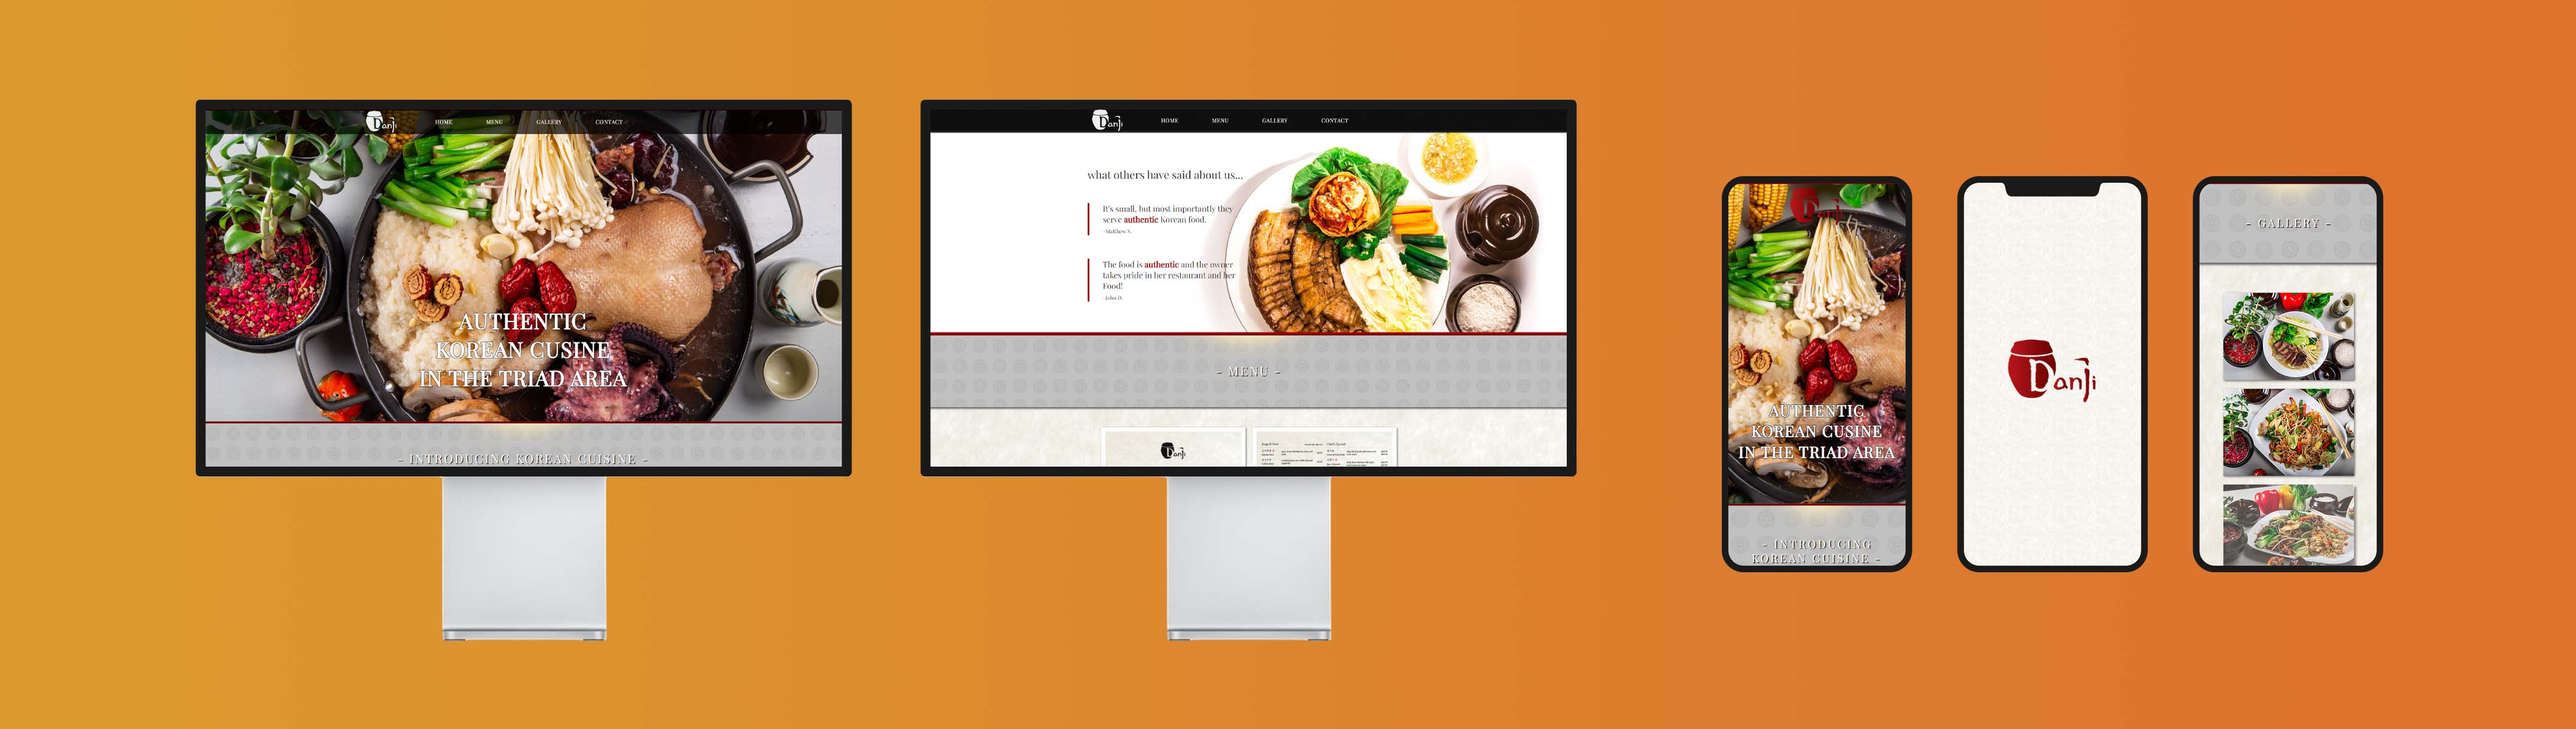
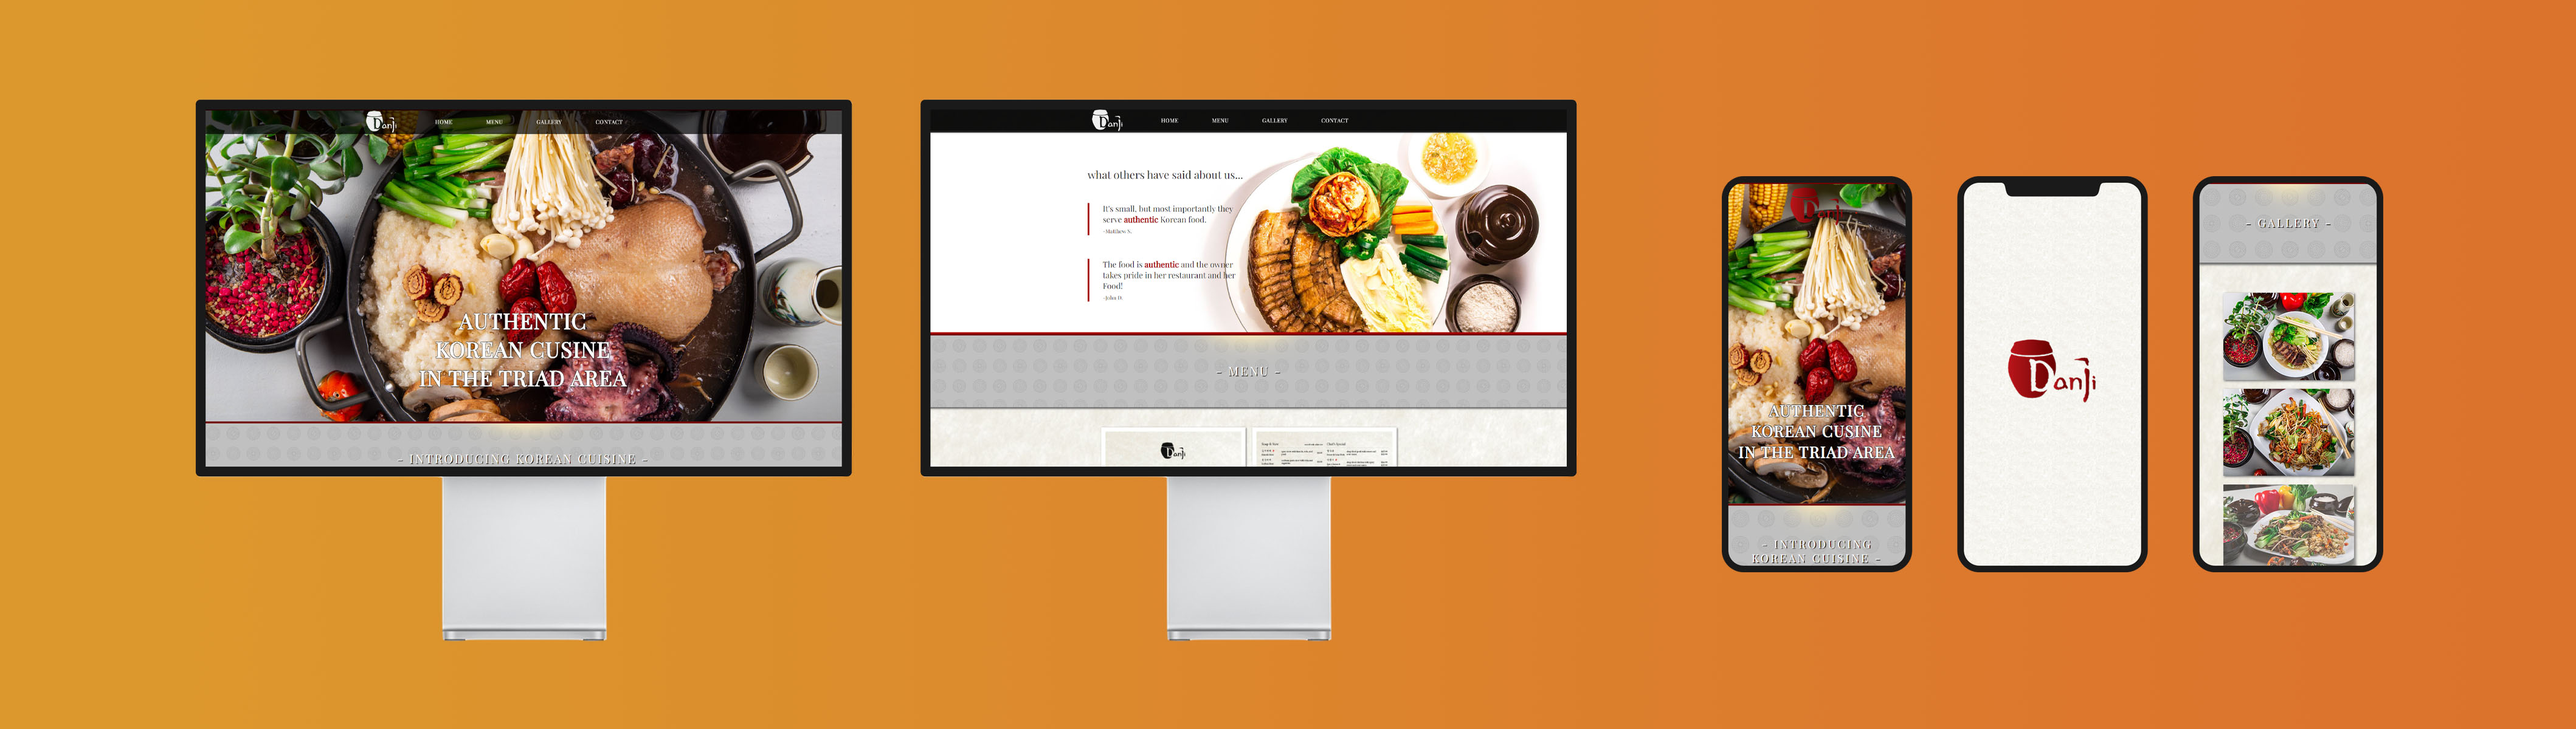
svg

diff --git a/src/assests/image/projects/DesktopSVG.js b/src/assests/image/projects/DesktopSVG.js
@@ -1,0 +1,76 @@
+import React from "react";
+
+const DesktopSVG = ({ img }) => {
+  const st0 = {
+    fill: "#CCCCCC",
+  };
+  const st1 = {
+    fill: "#B3B3B3",
+  };
+  const st2 = {
+    fill: "url(#SVGID_1_)",
+  };
+  return (
+    <div className="slide-img--desktop">
+      <svg
+        version="1.1"
+        xmlns="http://www.w3.org/2000/svg"
+        // xmlns:xlink="http://www.w3.org/1999/xlink"
+        x="0px"
+        y="0px"
+        viewBox="0 0 1400 1200"
+        style={{ enableBackground: "new 0 0 1400 1200" }}
+        // xml:space="preserve"
+      >
+        <rect
+          x="525.92"
+          y="791.33"
+          style={st0}
+          width="348.27"
+          height="408.67"
+        />
+        <g>
+          <path
+            style={st1}
+            d="M868.17,1200H531.93c-3.32,0-6.01-2.69-6.01-6.01v-14.4h348.27v14.4C874.18,1197.31,871.49,1200,868.17,1200z"
+          />
+          <linearGradient
+            id="SVGID_1_"
+            gradientUnits="userSpaceOnUse"
+            x1="700.052"
+            y1="1159.1688"
+            x2="700.052"
+            y2="1179.5844"
+          >
+            <stop offset="0.299" style={{ stopColor: "#cccccc" }} />
+            <stop offset="0.4224" style={{ stopColor: "#c8c8c8" }} />
+            <stop offset="0.5471" style={{ stopColor: "#bcbcbc" }} />
+            <stop offset="0.6726" style={{ stopColor: "#a8a8a8" }} />
+            <stop offset="0.7985" style={{ stopColor: "#8b8b8b" }} />
+            <stop offset="0.9236" style={{ stopColor: "#676767" }} />
+            <stop offset="1" style={{ stopColor: "#4d4d4d" }} />
+          </linearGradient>
+          <rect
+            x="525.92"
+            y="1159.17"
+            style={st2}
+            width="348.27"
+            height="20.42"
+          />
+        </g>
+        <g>
+          <path
+            d="M1375.67,20c2.39,0,4.33,1.94,4.33,4.33v751.33c0,2.39-1.94,4.33-4.33,4.33H24.33c-2.39,0-4.33-1.94-4.33-4.33V24.33
+		c0-2.39,1.94-4.33,4.33-4.33H1375.67 M1375.67,0H24.33C10.89,0,0,10.89,0,24.33v751.33C0,789.11,10.89,800,24.33,800h1351.33
+		c13.44,0,24.33-10.89,24.33-24.33V24.33C1400,10.89,1389.11,0,1375.67,0L1375.67,0z"
+          />
+        </g>
+      </svg>
+      <div className="masking">
+        <img src={img} alt="aaang" />
+      </div>
+    </div>
+  );
+};
+
+export default DesktopSVG;

diff --git a/src/assests/image/projects/MobileSVG.jsx b/src/assests/image/projects/MobileSVG.jsx
@@ -1,0 +1,39 @@
+import React from "react";
+
+const DesktopSVG = ({ img }) => {
+  const st0 = {
+    fill: "#1a1a1a",
+  };
+  const st1 = {
+    fill: "#B3B3B3",
+  };
+  const st2 = {
+    fill: "url(#SVGID_1_)",
+  };
+  return (
+    <div className="slide-img--desktop">
+      <svg
+        version="1.1"
+        id="Layer_1"
+        xmlns="http://www.w3.org/2000/svg"
+        x="0px"
+        y="0px"
+        viewBox="0 0 480 1000"
+        style={{ enableBackground: "new 0 0 480 1000" }}
+      >
+        <path
+          style={st0}
+          d="M424.55,0h-48.94h-5.44H109.83H94.97H55.45C24.88,0,0,24.89,0,55.47v889.05C0,975.11,24.88,1000,55.45,1000
+	h168.58h15.39h1.15h15.39h168.58c30.58,0,55.45-24.89,55.45-55.47V55.47C480,24.89,455.12,0,424.55,0z M424.55,16.55
+	c21.49,0,38.91,17.43,38.91,38.92v889.05c0,21.5-17.42,38.92-38.91,38.92h-99.19h-69.39h-31.94h-57.67H55.45
+	c-21.49,0-38.91-17.43-38.91-38.92V55.47c0-21.5,17.42-38.92,38.91-38.92H424.55z"
+        />
+      </svg>
+      <div className="masking">
+        <img src={img} alt="aaang" />
+      </div>
+    </div>
+  );
+};
+
+export default DesktopSVG;

diff --git a/src/components/works/WorkDetail.js b/src/components/works/WorkDetail.js
@@ -2,6 +2,8 @@ import React, { useRef, useEffect, useState } from "react";
 
 import Slide from "./Slide";
 import useGalleryHoriScroll from "./useGalleryHoriScroll";
+import DesktopSVG from "../../assests/image/projects/DesktopSVG";
+import MobileSVG from "../../assests/image/projects/MobileSVG";
 
 const WorkDetail = ({ slideImgStyle, pageControl, images }) => {
   const refCont = useRef(null);
@@ -20,7 +22,9 @@ const WorkDetail = ({ slideImgStyle, pageControl, images }) => {
             // style={{ transform: `translateX(-${slide}px)` }}
             style={{ paddingRight: "10vw" }}
           >
-            <Slide img={images?.slideImages[0]} />
+            <DesktopSVG img={images?.slideImages[2]} />
+            <DesktopSVG img={images?.slideImages[1]} />
+            {/* <Slide img={images?.slideImages[0]} /> */}
             <Slide img={images?.slideImages[1]} />
             <Slide img={images?.slideImages[2]} />
           </div>

diff --git a/src/assests/image/projects/aaang.html b/src/assests/image/projects/aaang.html
@@ -1,0 +1,24 @@
+<?xml version="1.0" encoding="utf-8"?>
+<!-- Generator: Adobe Illustrator 25.4.1, SVG Export Plug-In . SVG Version: 6.00 Build 0)  -->
+<svg
+  version="1.1"
+  id="Layer_1"
+  xmlns="http://www.w3.org/2000/svg"
+  x="0px"
+  y="0px"
+  viewBox="0 0 480 1000"
+  style="enable-background: new 0 0 480 1000"
+>
+  <style type="text/css">
+    .st0 {
+      fill: #1a1a1a;
+    }
+  </style>
+  <path
+    style="{st0}"
+    d="M424.55,0h-48.94h-5.44H109.83H94.97H55.45C24.88,0,0,24.89,0,55.47v889.05C0,975.11,24.88,1000,55.45,1000
+	h168.58h15.39h1.15h15.39h168.58c30.58,0,55.45-24.89,55.45-55.47V55.47C480,24.89,455.12,0,424.55,0z M424.55,16.55
+	c21.49,0,38.91,17.43,38.91,38.92v889.05c0,21.5-17.42,38.92-38.91,38.92h-99.19h-69.39h-31.94h-57.67H55.45
+	c-21.49,0-38.91-17.43-38.91-38.92V55.47c0-21.5,17.42-38.92,38.91-38.92H424.55z"
+  />
+</svg>

diff --git a/src/scss/_works.scss b/src/scss/_works.scss
@@ -388,3 +388,43 @@
   background-color: rgba(0, 0, 0, 0.3);
   // z-index: 5;
 }
+
+.web-portfolio__desktop {
+  width: 200px;
+  height: 200px;
+}
+
+.slide-img--desktop {
+  // position: relative;
+  height: 100%;
+  width: auto;
+
+  display: flex;
+  align-items: flex-end;
+
+  & svg {
+    position: absolute;
+    bottom: 0;
+    height: 75vh;
+    margin-bottom: 9vh;
+    box-sizing: border-box;
+    z-index: 1;
+  }
+
+  & .masking {
+    position: relative;
+    bottom: 34vh;
+    height: calc(75vh / 3 * 2);
+    aspect-ratio: 7 / 4;
+    background-color: blue;
+    border-radius: 2vh;
+    overflow: hidden;
+    & img {
+      position: absolute;
+      top: 0;
+      left: 0;
+      width: 100%;
+      height: auto;
+    }
+  }
+}

diff --git a/src/components/works/WorkContent.js b/src/components/works/WorkContent.js
@@ -3,7 +3,6 @@ import React, { useRef, useEffect, useState } from "react";
 import WorkPictureContainer from "./WorkPictureContainer";
 import WorkDetail from "./WorkDetail";
 import useSlideStyle from "./useSlideStyle";
-import landing from "../../assests/image/projects/sushiRepublic/landing.jpg";
 
 const WorkContent = ({ refEl, pageControl, content }) => {
   const { slideImgStyle } = useSlideStyle(pageControl, refEl);
